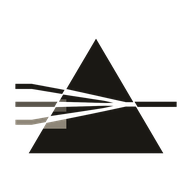
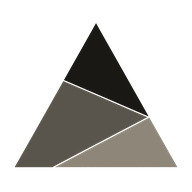
feat: update branding elements and localization in header and footer, adjust README and changelog

Changed region(s): [[0.0625, 0.125, 0.9375, 0.875]]

diff --git a/src/components/header.tsx b/src/components/header.tsx
@@ -1,7 +1,7 @@
 /**
- * [INPUT]: 依赖 next/image、SITE_ICON 共享品牌资产、当前 Locale、Dictionary 与 LanguageSelect 客户端组件
- * [OUTPUT]: 对外提供含本地化营销副标题的编辑部品牌锁定组合与地球图标语言菜单
- * [POS]: src/components 的页面头部 Server Component，负责品牌识别并把最小交互下沉给 LanguageSelect
+ * [INPUT]: 依赖 next/image、SITE_ICON 共享品牌资产、当前 Locale、Dictionary 的语言文案与 LanguageSelect 客户端组件
+ * [OUTPUT]: 对外提供紧凑置顶的编辑部品牌字标与地球图标语言菜单
+ * [POS]: src/components 的页面头部 Server Component，仅承担全局导航与品牌识别
  * [PROTOCOL]: 变更时更新此头部，然后检查 README.md
  */
 import Image from "next/image";
@@ -16,31 +16,26 @@ interface HeaderProps {
 
 export function Header({ locale, dictionary }: HeaderProps) {
   return (
-    <header className="border-b border-hairline">
-      <div className="mx-auto flex max-w-5xl items-center justify-between gap-2 px-5 py-3 sm:gap-4 sm:py-3.5">
+    <header className="sticky top-0 z-50 border-b border-hairline bg-bg">
+      <div className="mx-auto flex max-w-5xl items-center justify-between gap-2 px-5 py-2 sm:gap-4 sm:py-2.5">
         <a
           aria-label="AIEvalIndex"
-          className="group flex min-w-0 flex-1 items-center gap-2.5 rounded-sm focus-visible:outline-2 focus-visible:outline-offset-4 focus-visible:outline-accent sm:gap-3"
+          className="group flex min-w-0 flex-1 items-center gap-2.5 rounded-sm"
           href={localePath(locale)}
         >
           <Image
             alt=""
             aria-hidden="true"
-            className="size-[34px] shrink-0 sm:size-10"
+            className="size-8 shrink-0 sm:size-9"
             height={40}
             src={SITE_ICON.url}
             unoptimized
             width={40}
           />
-          <span className="min-w-0">
-            <span className="block whitespace-nowrap font-serif text-[21px] leading-none tracking-[-.035em] text-ink sm:text-[27px]">
-              <span className="font-semibold">AI Eval</span>{" "}
-              <span className="font-normal italic text-ink-soft transition-colors group-hover:text-ink">
-                Index
-              </span>
-            </span>
-            <span className="mt-1 block min-h-6 text-balance font-sans text-[10px] font-medium leading-[1.2] tracking-[.01em] text-ink-soft sm:min-h-0 sm:text-[11px] sm:leading-[1.15]">
-              {dictionary.header.tagline}
+          <span className="translate-y-[2px] whitespace-nowrap font-serif text-3xl leading-none tracking-[-.035em] text-ink">
+            <span className="font-semibold">AI Eval</span>{" "}
+            <span className="font-normal italic text-ink-soft transition-colors group-hover:text-ink">
+              Index
             </span>
           </span>
         </a>

diff --git a/src/components/footer.tsx b/src/components/footer.tsx
@@ -1,7 +1,7 @@
 /**
- * [INPUT]: 依赖 ModelEvaluation 的来源与更新时间、Dictionary 的页脚文案
- * [OUTPUT]: 对外提供数据源、免责声明和翻译说明页脚
- * [POS]: src/components 的详情页 Footer Server Component
+ * [INPUT]: 依赖 ModelEvaluation 的来源与更新时间、Dictionary 的品牌副标题与页脚文案
+ * [OUTPUT]: 对外提供品牌副标题、数据源、免责声明和翻译说明页脚
+ * [POS]: src/components 的详情页 Footer Server Component，承接页面尾部的品牌表达与资料说明
  * [PROTOCOL]: 变更时更新此头部，然后检查 README.md
  */
 import type { Dictionary, ModelEvaluation } from "@/lib/contracts";
@@ -14,6 +14,9 @@ interface FooterProps {
 export function Footer({ dictionary, evaluation }: FooterProps) {
   return (
     <footer className="mt-14 border-t border-hairline pb-12 pt-6">
+      <p className="mb-6 max-w-2xl font-serif text-[15px] leading-[1.5] text-ink-soft">
+        {dictionary.footer.tagline}
+      </p>
       <h2 className="mb-3 font-mono text-[10px] uppercase tracking-[.12em] text-ink-faint">{dictionary.footer.sources}</h2>
       <ul className="flex flex-wrap gap-x-6 gap-y-1.5">
         {evaluation.sources.map((source) => (

diff --git a/tests/site.spec.ts b/tests/site.spec.ts
@@ -116,6 +116,22 @@ test("Header 与浏览器标签共享品牌图标", async ({ page }) => {
   await expect(page.locator('link[rel="icon"]')).toHaveAttribute("href", "/aievalindex-mark.png");
 });
 
+test("Header 置顶、背景一致且品牌副标题归入 Footer", async ({ page }) => {
+  await page.goto("/en/");
+  const tagline = "AI model scores and real-world reviews, together";
+  const header = page.locator("header");
+  const [headerBackground, bodyBackground] = await Promise.all([
+    header.evaluate((element) => getComputedStyle(element).backgroundColor),
+    page.locator("body").evaluate((element) => getComputedStyle(element).backgroundColor),
+  ]);
+
+  await expect(header).toHaveCSS("position", "sticky");
+  await expect(header).toHaveCSS("top", "0px");
+  expect(headerBackground).toBe(bodyBackground);
+  await expect(header.getByText(tagline, { exact: true })).toHaveCount(0);
+  await expect(page.locator("footer").getByText(tagline, { exact: true })).toBeVisible();
+});
+
 test("移动端仅跑分容器横向滚动", async ({ page }) => {
   await page.setViewportSize({ width: 390, height: 844 });
   await page.goto("/en/");

diff --git a/src/content/i18n/ja.ts b/src/content/i18n/ja.ts
@@ -12,7 +12,6 @@ const dictionary = {
     "description": "Moonshot AI「Kimi K3」の公式ベンチマーク、アリーナ順位、厳選コミュニティレビュー——すべての数値は出典にリンク。"
   },
   "header": {
-    "tagline": "AIモデル評価と実利用レビューを、ひとつに",
     "language": "言語"
   },
   "hero": {
@@ -50,6 +49,7 @@ const dictionary = {
     "readOriginal": "原文を読む"
   },
   "footer": {
+    "tagline": "AIモデル評価と実利用レビューを、ひとつに",
     "sources": "データ出典",
     "updated": "データ確認日",
     "disclaimer": "AIEvalIndex は公開ベンチマークとコミュニティレビューを集約。すべての数値は出典にリンクしています。",

diff --git a/src/content/i18n/fr.ts b/src/content/i18n/fr.ts
@@ -12,7 +12,6 @@ const dictionary = {
     "description": "Benchmarks officiels, classements d'arène et avis communautaires sélectionnés pour Kimi K3 de Moonshot AI — chaque chiffre renvoie à sa source."
   },
   "header": {
-    "tagline": "Scores des modèles d’IA et avis réels, réunis",
     "language": "Langue"
   },
   "hero": {
@@ -50,6 +49,7 @@ const dictionary = {
     "readOriginal": "Lire l'original"
   },
   "footer": {
+    "tagline": "Scores des modèles d’IA et avis réels, réunis",
     "sources": "Sources des données",
     "updated": "Données vérifiées le",
     "disclaimer": "AIEvalIndex agrège des données publiques de benchmarks et des avis communautaires. Chaque chiffre renvoie à sa source.",

diff --git a/src/content/i18n/ko.ts b/src/content/i18n/ko.ts
@@ -12,7 +12,6 @@ const dictionary = {
     "description": "Moonshot AI Kimi K3의 공식 벤치마크, 아레나 순위, 엄선된 커뮤니티 리뷰 — 모든 수치는 출처로 연결됩니다."
   },
   "header": {
-    "tagline": "AI 모델 점수와 실제 사용 후기를 한눈에",
     "language": "언어"
   },
   "hero": {
@@ -50,6 +49,7 @@ const dictionary = {
     "readOriginal": "원문 읽기"
   },
   "footer": {
+    "tagline": "AI 모델 점수와 실제 사용 후기를 한눈에",
     "sources": "데이터 출처",
     "updated": "데이터 확인일",
     "disclaimer": "AIEvalIndex는 공개 벤치마크 데이터와 커뮤니티 리뷰를 모읍니다. 모든 수치는 출처로 연결됩니다.",

diff --git a/src/content/i18n/es.ts b/src/content/i18n/es.ts
@@ -12,7 +12,6 @@ const dictionary = {
     "description": "Benchmarks oficiales, rankings de arena y reseñas comunitarias seleccionadas de Kimi K3 de Moonshot AI — cada cifra enlaza a su fuente."
   },
   "header": {
-    "tagline": "Puntuaciones de modelos de IA y reseñas reales, en un solo lugar",
     "language": "Idioma"
   },
   "hero": {
@@ -50,6 +49,7 @@ const dictionary = {
     "readOriginal": "Leer original"
   },
   "footer": {
+    "tagline": "Puntuaciones de modelos de IA y reseñas reales, en un solo lugar",
     "sources": "Fuentes de datos",
     "updated": "Datos verificados",
     "disclaimer": "AIEvalIndex agrega datos públicos de benchmarks y reseñas comunitarias. Cada cifra enlaza a su fuente.",

diff --git a/src/content/i18n/en.ts b/src/content/i18n/en.ts
@@ -12,7 +12,6 @@ const dictionary = {
     "description": "Official benchmarks, arena rankings and hand-curated community reviews for Moonshot AI's Kimi K3 — every figure linked back to its source."
   },
   "header": {
-    "tagline": "AI model scores and real-world reviews, together",
     "language": "Language"
   },
   "hero": {
@@ -50,6 +49,7 @@ const dictionary = {
     "readOriginal": "Read original"
   },
   "footer": {
+    "tagline": "AI model scores and real-world reviews, together",
     "sources": "Data sources",
     "updated": "Data verified",
     "disclaimer": "AIEvalIndex aggregates public benchmark data and community reviews. Every figure links back to its source.",

diff --git a/src/content/i18n/zh-CN.ts b/src/content/i18n/zh-CN.ts
@@ -12,7 +12,6 @@ const dictionary = {
     "description": "Moonshot AI Kimi K3 的官方跑分、竞技场排名与人工精选社区评价——每个数字都可回溯到数据源。"
   },
   "header": {
-    "tagline": "AI 模型评分与真实评价，一站看懂",
     "language": "语言"
   },
   "hero": {
@@ -50,6 +49,7 @@ const dictionary = {
     "readOriginal": "阅读原文"
   },
   "footer": {
+    "tagline": "AI 模型评分与真实评价，一站看懂",
     "sources": "数据来源",
     "updated": "数据核对于",
     "disclaimer": "AIEvalIndex 汇总公开跑分数据与社区评价，每个数字均可回溯到数据源。",

diff --git a/src/lib/contracts.ts b/src/lib/contracts.ts
@@ -15,7 +15,7 @@ export type LocalizedText = { en: string } & Partial<Record<Exclude<Locale, "en"
 
 export interface Dictionary {
   meta: { title: string; description: string };
-  header: { tagline: string; language: string };
+  header: { language: string };
   hero: {
     by: string;
     released: string;
@@ -45,7 +45,7 @@ export interface Dictionary {
     consensusCons: string;
     readOriginal: string;
   };
-  footer: { sources: string; updated: string; disclaimer: string; aiNote: string };
+  footer: { tagline: string; sources: string; updated: string; disclaimer: string; aiNote: string };
 }
 
 export interface ModelEvaluation {

diff --git a/tests/i18n.test.ts b/tests/i18n.test.ts
@@ -7,7 +7,7 @@ describe("i18n fallback", () => {
   it("只覆盖指定字段，其余字段回落英文母本", () => {
     const dictionary = mergeDictionary({ header: { language: "语言" } });
     expect(dictionary.header.language).toBe("语言");
-    expect(dictionary.header.tagline).toBe("AI model scores and real-world reviews, together");
+    expect(dictionary.footer.tagline).toBe("AI model scores and real-world reviews, together");
     expect(dictionary.footer.sources).toBe("Data sources");
   });
 

diff --git a/CHANGELOG.md b/CHANGELOG.md
@@ -33,8 +33,9 @@
 
 ### 变更
 
-- Header 品牌标记升级为方形汇聚棱镜：三路灰阶评分经过负形切口汇成单路输出，并与浏览器标签复用同一透明 PNG 资产。
-- Header 品牌区升级为原创跑分柱标记、Newsreader 正体/斜体字标与六语言营销副标题组合，强化识别度并保持移动端布局稳定。
+- Header 品牌标记精简为方形汇聚棱镜：移除外部光线，以三块灰阶三角面在内部焦点汇合表达多源评分聚合，并与浏览器标签复用同一透明 PNG 资产。
+- Header 收紧标记、字标与垂直留白，校准品牌组合的视觉中心，置顶时保持与页面一致的实色背景。
+- 六语言营销副标题迁入 Footer，与数据源、免责声明和翻译说明统一承接页尾信息。
 - Header 语言切换器改为仅显示当前国旗的 shadcn Base UI 单选菜单，保留本地语言记忆并完善键盘与读屏交互。
 - Header 语言触发器统一为无底色的 Phosphor Globe 图标，切换后不再显示当前语言国旗。
 
